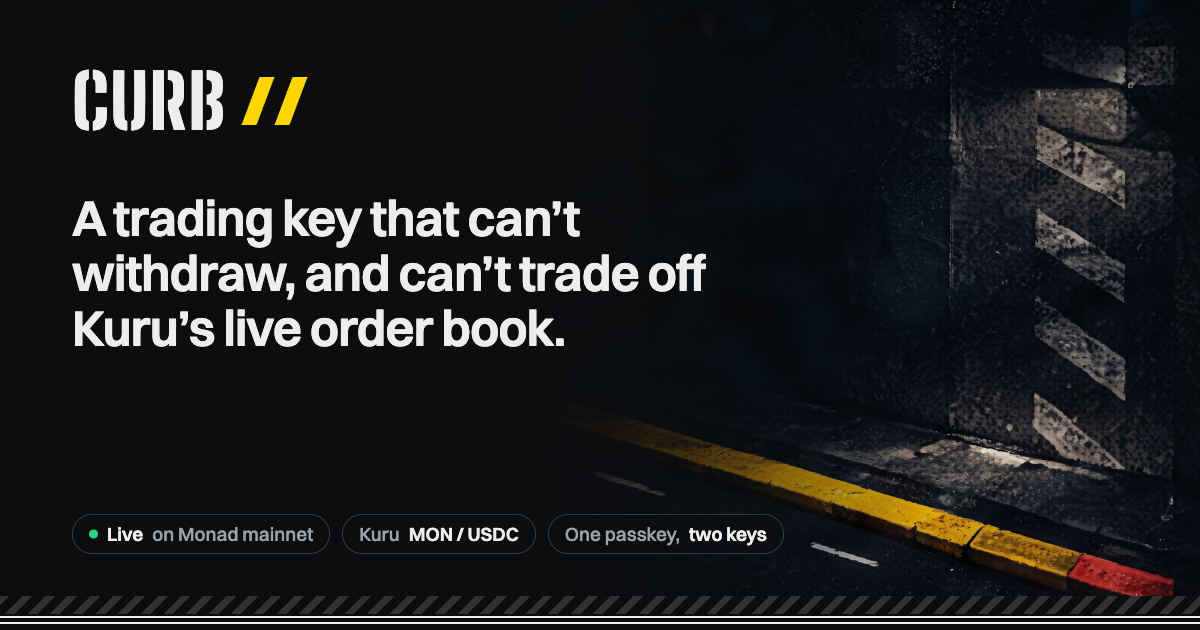
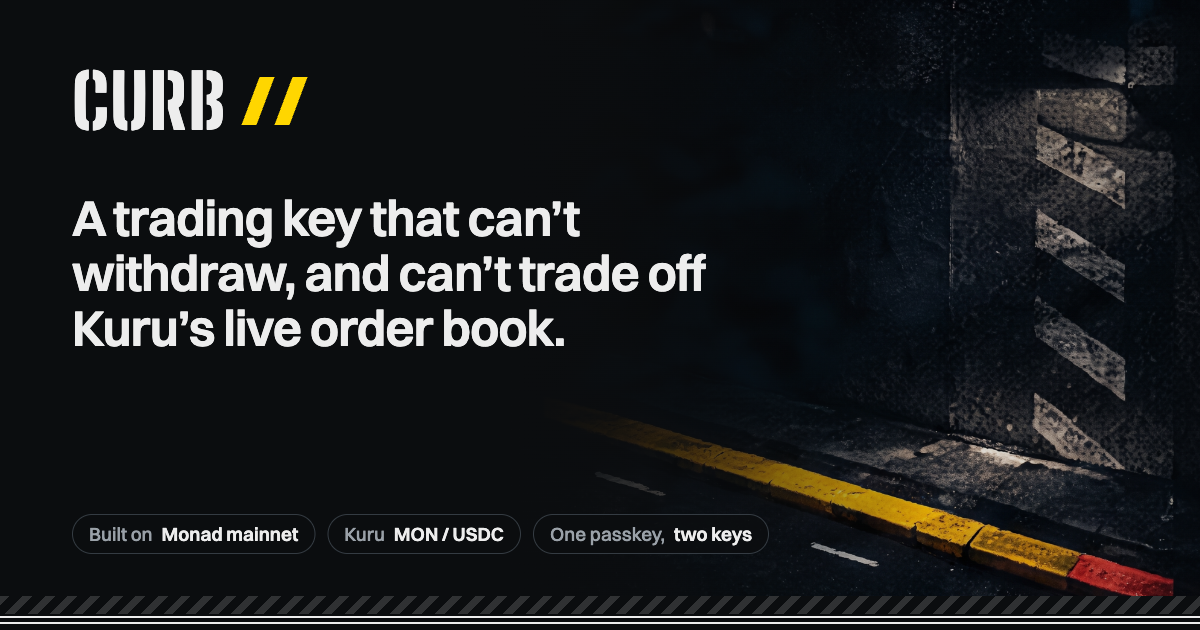
fix(#19): truthful error pages, share card without a live claim, fork-verified confirmed pill
Corrects the previous commit: the error pages no longer say "nothing was
signed or sent". A render error can't know that; they now say a screen
error can't sign or send by itself, and that anything already confirmed
stands onchain. The 404 says nothing on it can sign or send.

- Share card: "Built on Monad mainnet", no green dot (a static image is
  never live, D-015); alt text matches.
- Error page carries the lane device, ending in the hollow offline ring;
  404 and error pages show the wordmark on phones.
- E-008: error page captured from a production build; the green
  "Confirmed" pill captured after a real transaction on a mainnet fork.

Changed region(s): [[0.0617, 0.8143, 0.6475, 0.8746]]

diff --git a/web/src/app/error.tsx b/web/src/app/error.tsx
@@ -3,8 +3,9 @@
 import Link from "next/link";
 import { useEffect } from "react";
 import { RotateCw } from "lucide-react";
+import { Wordmark } from "@/components/curb/wordmark";
 
-/** A screen failed to render. Say the one thing a trader needs first: nothing left their keys. */
+/** A screen failed to render. Say what is true: a render error sends nothing, and anything already confirmed stands onchain. */
 export default function ErrorScreen({ error, retry }: { error: Error & { digest?: string }; retry: () => void }) {
   useEffect(() => {
     console.error(error);
@@ -12,10 +13,19 @@ export default function ErrorScreen({ error, retry }: { error: Error & { digest?
 
   return (
     <main className="mx-auto flex min-h-[70dvh] w-full max-w-[560px] flex-col justify-center px-4 pb-32 pt-10">
+      <div className="mb-6 px-1.5 md:hidden">
+        <Wordmark />
+      </div>
       <section className="panel rise p-6" role="alert">
-        <h1 className="text-[24px] font-semibold text-road">This screen stopped.</h1>
+        {/* The lane runs out into the hollow ring the app uses for "offline": the screen, not the chain, stopped. */}
+        <div className="flex items-center gap-2" aria-hidden="true">
+          <span className="size-2.5 shrink-0 rounded-full bg-road" />
+          <div className="lane-dashes grow opacity-60" data-status="stalled" />
+          <span className="size-3 shrink-0 rounded-full border-2 border-muted" />
+        </div>
+        <h1 className="mt-6 text-[24px] font-semibold text-road">This screen stopped.</h1>
         <p className="mt-1.5 text-[14px] leading-relaxed text-muted">
-          Something failed while drawing it. Nothing was signed and nothing was sent; your keys and funds are where they were.
+          Drawing it failed. A screen error can&apos;t sign or send anything by itself; if you had already confirmed a transaction, it stands onchain as sent.
         </p>
         {error.digest ? <p className="figures mt-3 text-[11px] text-faint">ref {error.digest}</p> : null}
         <div className="mt-6 flex flex-col gap-2.5">

diff --git a/web/src/app/not-found.tsx b/web/src/app/not-found.tsx
@@ -1,5 +1,6 @@
 import Link from "next/link";
 import { ArrowRight } from "lucide-react";
+import { Wordmark } from "@/components/curb/wordmark";
 
 export const metadata = { title: "No road here" };
 
@@ -7,6 +8,9 @@ export const metadata = { title: "No road here" };
 export default function NotFound() {
   return (
     <main className="mx-auto flex min-h-[70dvh] w-full max-w-[560px] flex-col justify-center px-4 pb-32 pt-10">
+      <div className="mb-6 px-1.5 md:hidden">
+        <Wordmark />
+      </div>
       <section className="panel rise overflow-hidden p-6">
         <p className="font-stencil text-[88px] font-bold leading-[0.9] text-road" aria-hidden="true">
           404
@@ -17,7 +21,7 @@ export default function NotFound() {
           <span className="h-7 w-[7px] shrink-0 border-x-2 border-road" />
         </div>
         <h1 className="mt-6 text-[24px] font-semibold text-road">No road here.</h1>
-        <p className="mt-1.5 text-[14px] leading-relaxed text-muted">This address isn&apos;t part of Curb. Nothing was signed and nothing was sent.</p>
+        <p className="mt-1.5 text-[14px] leading-relaxed text-muted">This address isn&apos;t part of Curb. Nothing here can sign or send.</p>
         <Link href="/" className="btn btn-primary mt-6 w-full">
           Back to the lane <ArrowRight size={18} strokeWidth={2.2} aria-hidden="true" />
         </Link>

diff --git a/web/src/app/global-error.tsx b/web/src/app/global-error.tsx
@@ -8,7 +8,7 @@ export default function GlobalError({ retry }: { error: Error & { digest?: strin
         <title>Curb</title>
         <main style={{ maxWidth: 420, padding: 24 }}>
           <h1 style={{ fontSize: 24, fontWeight: 600, margin: 0 }}>Curb stopped loading.</h1>
-          <p style={{ color: "#9aa1a8", fontSize: 14, lineHeight: 1.6 }}>Nothing was signed and nothing was sent; your keys and funds are where they were.</p>
+          <p style={{ color: "#9aa1a8", fontSize: 14, lineHeight: 1.6 }}>A loading error can&apos;t sign or send anything by itself; if you had already confirmed a transaction, it stands onchain as sent.</p>
           <button
             type="button"
             onClick={() => retry()}

diff --git a/docs/EVIDENCE.md b/docs/EVIDENCE.md
@@ -67,4 +67,4 @@ The resting buy locked exactly price × size: 0.026702 USDC × 200 MON = 5.3404 
 
 | E-006 | 2026-09-27 | The board redesign (D-013) renders every screen on live Monad and Kuru data with no horizontal overflow at 390 / 430 / 768 / 1280 / 1440; the off-lane draft lands in the hatched off-book zone and the ticket names the refusal; `impeccable detect` finds nothing; an independent finish review ended `ship` | Playwright captures on `next dev` against mainnet (docs/evidence/ui/: trade-mobile, trade-desktop, offlane-mobile, orders-mobile); Impeccable comp-diff hero 81% (every text region passes; live-pill and buy-bar drift only by the user's waived colours); reviewer passes: full review `fix` (8 items) → verdict `fix` (2 partial + stencil "4" misreading as a decimal point) → verdict `ship`; lint 0 warnings, typecheck, 17 tests, warning-free build | branch `16-board-redesign` |
 | E-007 | 2026-09-27 | Curb is live on Monad mainnet data at https://curb-jet.vercel.app: all six routes return 200 and unknown paths a Next 404; the block stream advanced 10 blocks in 3 s with the lane dashes stepping exactly 10; the Kuru mid and lane curbs render; the curb plate loads through the image optimizer; /start runs in a secure context with WebAuthn available; zero console errors; no overflow at 390 or 1440 | curl per route; Playwright on production (block 108,367,253 → 108,367,263, `--step` 15 → 25); captures docs/evidence/ui/prod-trade-mobile.png, prod-trade-desktop.png | branch `6-vercel-deploy` |
-| E-008 | 2026-09-27 | Signal green marks only live and confirmed-onchain state (D-015); the app has its own favicon, iPhone icon, installable manifest and share card; every stencil "4" is clean at the font level; 404 and error pages are in place | Playwright on `next dev` against mainnet: rendered head carries manifest, format-detection off, og/twitter 1200x630 image + alt, favicon.ico, icon.svg, apple-touch-icon; Trade tab title "0.026110 MON/USDC · Curb"; 404 title "No road here · Curb"; `@font-face` for the clean 4 limited to `unicode-range: U+34`; build lists icon, apple-icon, manifest, opengraph and twitter images as static routes; lint 0 warnings, typecheck, 17 tests, warning-free build; `impeccable detect` 0 findings | branch `19-live-green-identity` |
[1 lines of base64/hex data omitted]
